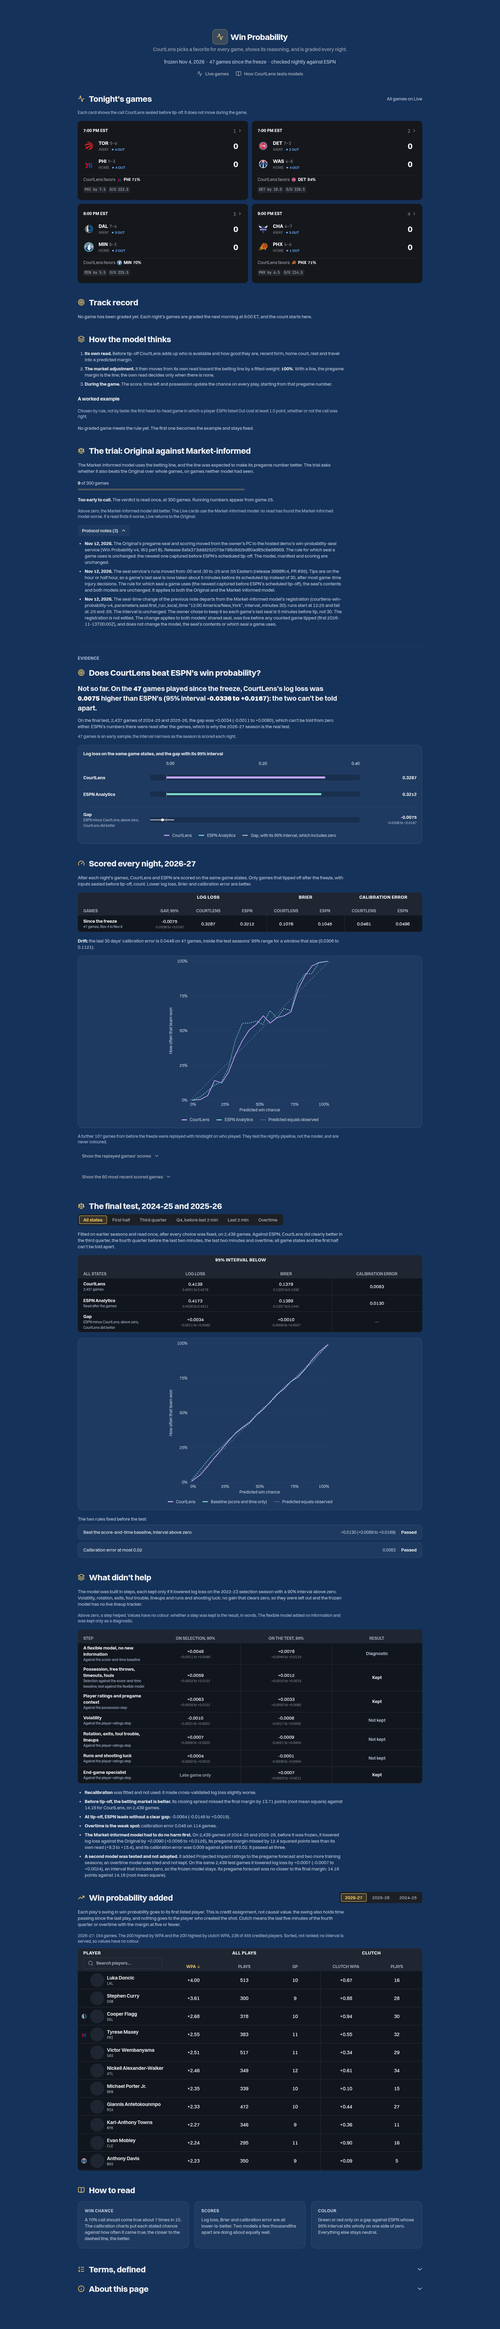
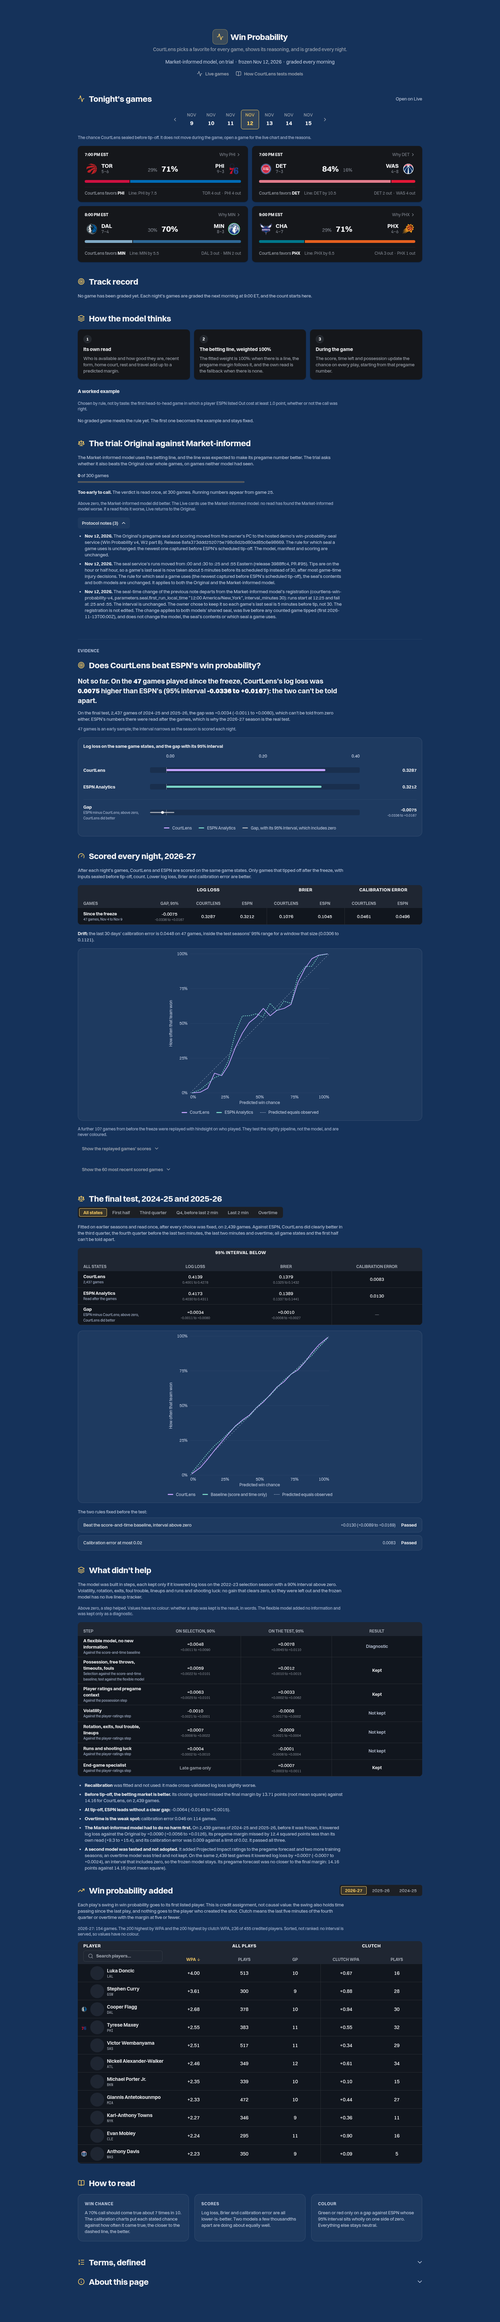
feat(wp4): W5 round 2, the page opens on a prediction board
Owner: the page should lead with the games and CourtLens's calls, user-friendly like Live, data kept.
Live's date strip over one card per game: logos, the sealed chance for each side, a bar split at it
in team colours, the call, line and who's out; finals show the score and right/wrong. Step cards,
hero names the serving model. Decisions recorded in the design catalog. Spec x3 + existing WP specs
42/42; live-prediction spec passes.

diff --git a/dashboard/components/win-probability-v4.tsx b/dashboard/components/win-probability-v4.tsx
@@ -1,13 +1,17 @@
 "use client";
 
 import Link from "next/link";
-import { easternToday, liveRead, nearestGameDate, type LiveGame, type LiveSlateData, type LiveTeam } from "@/lib/live";
+import { Suspense, type CSSProperties } from "react";
+import { awayFirst, easternToday, formatRecord, gameStatus, lineFavourite, liveRead, nearestGameDate, predictionCall, seasonOf, teamCode, validSlate, type LiveGame, type LiveSlateData, type LiveTeam } from "@/lib/live";
 import { formatDate } from "@/lib/format-date";
 import { band, metric, signed, type HeadToHead, type TrialRead, type WinProbabilityPage, type WorkedExample } from "@/lib/win-probability";
-import { GameCard } from "./live-board";
+import { DateStrip } from "./live-board";
+import { teamColors } from "./live-game";
+import { TeamLogo } from "./team-logo";
+import { Icon } from "./ui/icon";
 import { PredictionBody } from "./live-prediction";
 import { ResearchSection } from "./research/research-page";
-import { useFeed } from "./stats-feed-ui";
+import { useFeed, useUrlState } from "./stats-feed-ui";
 import { GatedNote } from "./ui/gated-note";
 import { ButtonSummary } from "./ui/kit";
 import { CalibrationChart } from "./win-probability-research";
@@ -18,34 +22,97 @@ import { CalibrationChart } from "./win-probability-research";
  * Before the first scored game, and in the offseason, each section says what it is waiting for.
  */
 
+const vars = (values: Record<`--${string}`, string>) => values as CSSProperties;
 const whole = (n: number) => n.toLocaleString("en-US");
 const pct = (right: number, games: number) => games ? `${Math.round((right / games) * 100)}%` : "—";
 const RESULT_WORDS: Record<string, string> = { better: "better", worse: "worse", inconclusive: "no clear difference" };
 
-// ---- 2. Latest slate ------------------------------------------------------------------------------------------------------
+// ---- 2. The prediction board: a date strip and one card per game, the call first --------------------------------------
 
-async function latestSlate(signal: AbortSignal): Promise<{ day: string; games: LiveGame[]; today: boolean } | null> {
+type Board = { day: string; games: LiveGame[]; calendar: string[]; today: boolean; fallback: boolean };
+
+async function loadBoard(wanted: string | null, signal: AbortSignal): Promise<Board> {
   const today = easternToday();
-  const first = await liveRead<LiveSlateData>(`?slate_date=${today}`, signal);
-  if (first.data?.games.length) return { day: today, games: first.data.games, today: true };
-  const earlier = nearestGameDate(first.data?.calendar?.filter(d => d < today), today);
-  if (!earlier) return null;
+  const day = wanted ?? today;
+  const first = await liveRead<LiveSlateData>(`?slate_date=${day}`, signal);
+  const calendar = first.data?.calendar ?? [];
+  const games = first.data?.games ?? [];
+  if (games.length || wanted) return { day, games, calendar, today: day === today, fallback: false };
+  // No games today: the latest earlier slate, so its calls and results show.
+  const earlier = nearestGameDate(calendar.filter(d => d < today), today);
+  if (!earlier) return { day, games: [], calendar, today: true, fallback: false };
   const read = await liveRead<LiveSlateData>(`?slate_date=${earlier}`, signal);
-  return read.data?.games.length ? { day: earlier, games: read.data.games, today: false } : null;
+  return { day: earlier, games: read.data?.games ?? [], calendar, today: false, fallback: true };
 }
 
-export function LatestSlate() {
-  const { data, error, loading } = useFeed([], signal => latestSlate(signal));
-  const title = data?.today ? "Tonight's games" : "The latest slate";
-  return <ResearchSection id="slate" icon="activity" title={title} aside={<Link href="/live" className="wp-link">All games on Live</Link>}>
-    {loading ? <p className="wp-note" role="status">Loading the slate…</p>
-      : error ? <GatedNote tone="warning">The slate is unavailable right now.</GatedNote>
-      : !data ? <p className="wp-lead" data-field="slate-empty">No games are scheduled. The first slate of the next season appears here with CourtLens&apos;s call for each game.</p>
-      : <>
-        <p className="wp-note" data-field="slate-day" data-day={data.day}>{data.today ? "Each card shows the call CourtLens sealed before tip-off. It does not move during the game." : `${formatDate(data.day)}: each card shows the sealed call and whether it was right.`}</p>
-        <ol className="live-grid wp-slate">{data.games.map((game, i) => <li key={game.source_id}><GameCard game={game} index={i} href={`/live/games/${game.source_id}?date=${game.slate_date}`} /></li>)}</ol>
-      </>}
+function TeamSide({ team, season, game, favoured }: { team: LiveTeam; season: string; game: LiveGame; favoured: boolean }) {
+  const played = game.status === "in_progress" || game.status === "final";
+  return <span className="wpc-team" data-side={team.side} data-favoured={favoured || undefined} data-lost={(game.status === "final" && team.winner === false) || undefined}>
+    <TeamLogo team={team.tricode ?? team.canonical_id ?? teamCode(team)} season={season} size={40} />
+    <span className="wpc-team-text">
+      <strong className="wpc-code">{teamCode(team)}</strong>
+      <span className="wpc-sub">{played ? <strong className="wpc-score">{team.score ?? "—"}</strong> : formatRecord(team.record) ?? (team.side === "home" ? "Home" : "Away")}</span>
+    </span>
+  </span>;
+}
+
+export function PredictionCard({ game }: { game: LiveGame }) {
+  const [away, home] = awayFirst(game.teams);
+  const season = seasonOf(game.slate_date);
+  const p = game.prediction;
+  const sealed = p?.status === "sealed" && p.home_win != null ? p.home_win : null;
+  const call = predictionCall(game);
+  const fav = sealed == null ? null : sealed >= 0.5 ? home : away;
+  const line = game.status === "scheduled" ? lineFavourite(game.odds, game.teams) : null;
+  const href = `/live/games/${game.source_id}?date=${game.slate_date}${game.status === "scheduled" ? "" : "&tab=pregame"}`;
+  return <Link className="wpc" href={href} data-status={game.status} data-game={game.source_id} data-home-win={sealed ?? undefined}
+    aria-label={`${away.name} at ${home.name}, ${gameStatus(game)}${fav && sealed != null ? `. CourtLens: ${teamCode(fav)} ${Math.round(Math.max(sealed, 1 - sealed) * 100)}% to win` : ""}. Open the game and why.`}
+    style={teamColors(game.teams, season)}>
+    <span className="wpc-head">
+      <span className="wpc-status">{game.status === "in_progress" && <span className="live-dot" aria-hidden="true" />}{gameStatus(game)}</span>
+      <span className="wpc-why">Why{fav ? ` ${teamCode(fav)}` : ""}<Icon name="right" size={14} /></span>
+    </span>
+    <span className="wpc-teams">
+      <TeamSide team={away} season={season} game={game} favoured={fav === away} />
+      {sealed != null ? <span className="wpc-pcts" aria-hidden="true">
+        <span data-favoured={fav === away || undefined}>{Math.round((1 - sealed) * 100)}%</span>
+        <span data-favoured={fav === home || undefined}>{Math.round(sealed * 100)}%</span>
+      </span> : <span className="wpc-pcts wpc-none" aria-hidden="true">—</span>}
+      <TeamSide team={home} season={season} game={game} favoured={fav === home} />
+    </span>
+    {sealed != null && <span className="wpc-bar" aria-hidden="true" style={vars({ "--wpc-away": `${(1 - sealed) * 100}%` })}><span data-side="away" /><span data-side="home" /></span>}
+    <span className="wpc-foot">
+      {call && call.kind !== "none" && fav ? <span className="wpc-call" data-call={call.kind} data-right={call.right == null ? undefined : String(call.right)} title={call.title}>
+        {{ favours: "CourtLens favors", toss_up: "Toss-up, leaning", pregame: "Pregame call:", called: "Called" }[call.kind]} <strong>{teamCode(fav)}</strong>
+        {call.kind === "called" && call.right != null && <span className="wpc-mark"><Icon name={call.right ? "check" : "close"} size={14} />{call.right ? "right" : "wrong"}</span>}
+      </span> : <span className="wpc-call" data-call="none">{p ? "No prediction was sealed for this game" : "Before CourtLens sealed predictions"}</span>}
+      {line && <span className="wpc-line" title={`The betting line (${game.odds?.provider ?? "sportsbook"})`}>Line: {line === "even" ? "even" : `${teamCode(line.team)} by ${line.points}`}</span>}
+      {game.status === "scheduled" && (away.out || home.out) ? <span className="wpc-out">{[away, home].filter(t => t.out).map(t => `${teamCode(t)} ${t.out} out`).join(" · ")}</span> : null}
+    </span>
+  </Link>;
+}
+
+function BoardInner() {
+  const { get } = useUrlState();
+  const wanted = get("day");
+  const day = wanted && validSlate(wanted) ? wanted : null;
+  const { data, stale, error, loading } = useFeed([day], signal => loadBoard(day, signal));
+  const board = data ?? stale;
+  const href = (d: string) => `/research/win-probability?day=${d}`;
+  const label = !board ? "Tonight's games" : board.today ? "Tonight's games" : formatDate(board.day);
+  return <ResearchSection id="slate" icon="activity" title={label} aside={<Link href={board ? `/live/${board.day}` : "/live"} className="wp-link">Open on Live</Link>}>
+    {board && <DateStrip slate={board.day} calendar={board.calendar} href={href} />}
+    {loading && !board ? <p className="wp-note" role="status">Loading the games…</p>
+      : error ? <GatedNote tone="warning">The games are unavailable right now.</GatedNote>
+      : board && board.games.length ? <>
+        <p className="wp-note" data-field="slate-day" data-day={board.day}>{board.fallback ? `No games today. The latest slate, ${formatDate(board.day)}: each call and whether it was right.` : board.today ? "The chance CourtLens sealed before tip-off. It does not move during the game; open a game for the live chart and the reasons." : "Each call as sealed before tip-off, and whether it was right."}</p>
+        <ol className="wpc-grid" aria-label="Predictions">{board.games.map(game => <li key={game.source_id}><PredictionCard game={game} /></li>)}</ol>
+      </> : <p className="wp-lead" data-field="slate-empty">{day ? "No games on this day." : "No games are scheduled. The first slate of the next season appears here with CourtLens's call for each game."}</p>}
   </ResearchSection>;
+}
+
+export function PredictionBoard() {
+  return <Suspense fallback={null}><BoardInner /></Suspense>;
 }
 
 // ---- 3. Track record ------------------------------------------------------------------------------------------------------
@@ -91,9 +158,9 @@ export function HowItThinks({ data }: { data: WinProbabilityPage }) {
   const game = example ? exampleGame(example) : null;
   return <ResearchSection id="how" icon="layers" title="How the model thinks">
     <ol className="wp-steps" data-field="steps">
-      <li><strong>Its own read.</strong> Before tip-off CourtLens adds up who is available and how good they are, recent form, home court, rest and travel into a predicted margin.</li>
-      <li data-field="weight" data-w={w}><strong>The market adjustment.</strong> It then moves from its own read toward the betting line by a fitted weight{w != null ? <>: <strong>{Math.round(w * 100)}%</strong>{w >= 0.995 ? ". With a line, the pregame margin is the line; the own read decides only when there is none" : ""}</> : ""}.</li>
-      <li><strong>During the game.</strong> The score, time left and possession update the chance on every play, starting from that pregame number.</li>
+      <li><span className="wp-step-n" aria-hidden="true">1</span><strong>Its own read</strong><span>Who is available and how good they are, recent form, home court, rest and travel add up to a predicted margin.</span></li>
+      <li data-field="weight" data-w={w}><span className="wp-step-n" aria-hidden="true">2</span><strong>The betting line{w != null ? `, weighted ${Math.round(w * 100)}%` : ""}</strong><span>{w != null && w >= 0.995 ? "The fitted weight is 100%: when there is a line, the pregame margin follows it, and the own read is the fallback when there is none." : "It moves from its own read toward the line by a fitted weight."}</span></li>
+      <li><span className="wp-step-n" aria-hidden="true">3</span><strong>During the game</strong><span>The score, time left and possession update the chance on every play, starting from that pregame number.</span></li>
     </ol>
     <h3 className="wp-subhead">A worked example</h3>
     <p className="wp-note" data-field="example-rule">Chosen by rule, not by taste: {example?.rule.replace(/^./, c => c.toLowerCase()) ?? "—"}</p>

diff --git a/dashboard/components/win-probability.css b/dashboard/components/win-probability.css
@@ -131,15 +131,56 @@
     .wp-defs dd { margin-bottom: var(--space-2); }
   }
   /* W5 (round 1): the v4 sections above the evidence. Neutral throughout; right and wrong are words. */
-  .wp-slate.live-grid { grid-template-columns: repeat(2, minmax(0, 1fr)); }
   .wp-link { color: var(--color-on-bg-secondary); font-size: var(--text-sm); }
   .wp-record { display: grid; grid-template-columns: repeat(3, minmax(0, 1fr)); gap: var(--space-3); max-width: 768px; margin: 0; }
   .wp-record > div { display: grid; gap: var(--space-1); padding: var(--space-3) var(--space-4); border-radius: var(--radius-md); background: var(--color-surface-1); box-shadow: var(--shadow-1); }
   .wp-record dt { color: var(--color-on-bg-tertiary); font-size: var(--text-xs); line-height: var(--text-xs-lh); }
   .wp-record dd { margin: 0; color: var(--color-text); font-size: var(--text-lg); font-weight: 650; font-variant-numeric: tabular-nums; }
   .wp-record dd .wp-name-sub { font-size: var(--text-2xs); font-weight: 400; }
-  .wp-steps { display: grid; gap: var(--space-2); max-width: 768px; margin: 0; padding-left: var(--space-5); color: var(--color-on-bg-secondary); font-size: var(--text-sm); line-height: var(--text-sm-lh); }
-  .wp-steps strong { color: var(--color-text); font-weight: 650; }
+  /* Round 2: the three steps as cards. */
+  .wp-steps { display: grid; grid-template-columns: repeat(3, minmax(0, 1fr)); gap: var(--space-3); margin: 0; padding: 0; list-style: none; }
+  .wp-steps > li { display: grid; align-content: start; gap: var(--space-2); padding: var(--space-4); border-radius: var(--radius-md); background: var(--color-surface-1); box-shadow: var(--shadow-1); color: var(--color-text-secondary); font-size: var(--text-sm); line-height: var(--text-sm-lh); }
+  .wp-steps strong { color: var(--color-text); font-size: var(--text-md); font-weight: 650; }
+  .wp-step-n { display: inline-grid; place-items: center; width: 24px; height: 24px; border-radius: 50%; background: var(--color-surface-3); color: var(--color-text); font-size: var(--text-xs); font-weight: 700; }
+
+  /* Round 2: the prediction board. Team colours mark identity only; right and wrong are words with ✓/✗. */
+  /* The strip sits in column 2 of Live's row grid; here it is a centred row of its own. */
+  .wp-page .live-strip { grid-column: auto; justify-content: center; }
+  .wpc-grid { display: grid; grid-template-columns: repeat(2, minmax(0, 1fr)); gap: var(--space-3); margin: 0; padding: 0; list-style: none; }
+  .wpc-grid > li { display: grid; }
+  .wpc {
+    display: grid; gap: var(--space-3); padding: var(--space-4) var(--space-5) var(--space-4); border-radius: var(--radius-md);
+    background: var(--color-surface-1); box-shadow: var(--shadow-1); color: var(--color-text); text-decoration: none; transition: background var(--dur-fast) var(--ease-out);
+  }
+  .wpc:hover { background: var(--color-surface-2); }
+  .wpc:focus-visible { outline: none; box-shadow: var(--focus-ring); }
+  .wpc-head { display: flex; align-items: center; justify-content: space-between; gap: var(--space-2); font-size: var(--text-xs); }
+  .wpc-status { display: inline-flex; align-items: center; gap: var(--space-1); font-weight: 700; }
+  .wpc-why { display: inline-flex; align-items: center; gap: var(--space-0-5); color: var(--color-text-tertiary); }
+  .wpc:hover .wpc-why { color: var(--color-text-secondary); }
+  .wpc-teams { display: grid; grid-template-columns: minmax(0, 1fr) auto minmax(0, 1fr); align-items: center; gap: var(--space-3); }
+  .wpc-team { display: flex; align-items: center; gap: var(--space-2); min-width: 0; }
+  .wpc-team[data-side="home"] { flex-direction: row-reverse; text-align: end; }
+  .wpc-team-text { display: grid; min-width: 0; }
+  .wpc-code { font-size: var(--text-lg); line-height: 1.1; font-weight: 700; }
+  .wpc-sub { color: var(--color-text-tertiary); font: 500 var(--text-xs) / 1.3 var(--font-mono, ui-monospace, monospace); }
+  .wpc-score { color: var(--color-text); font-size: var(--text-xl); line-height: 1.1; font-weight: 700; font-variant-numeric: tabular-nums; }
+  .wpc-team[data-lost] .wpc-code, .wpc-team[data-lost] .wpc-score { color: var(--color-text-secondary); font-weight: 600; }
+  .wpc-pcts { display: flex; gap: var(--space-3); font-size: var(--text-md); font-variant-numeric: tabular-nums; color: var(--color-text-tertiary); }
+  .wpc-pcts [data-favoured] { color: var(--color-text); font-size: var(--text-2xl); line-height: 1; font-weight: 700; }
+  .wpc-pcts { align-items: baseline; }
+  .wpc-bar { display: flex; height: 8px; overflow: hidden; border-radius: var(--radius-pill); background: var(--color-surface-3); }
+  .wpc-bar > [data-side="away"] { width: var(--wpc-away); background: var(--live-away); }
+  .wpc-bar > [data-side="home"] { flex: 1; background: var(--live-home); }
+  .wpc-bar > span + span { border-inline-start: 2px solid var(--color-surface-1); }
+  .wpc-foot { display: flex; flex-wrap: wrap; align-items: center; gap: var(--space-1) var(--space-3); padding-top: var(--space-2); border-top: 1px solid var(--color-hairline); color: var(--color-text-secondary); font-size: var(--text-xs); }
+  .wpc-call strong { color: var(--color-text); }
+  .wpc-call[data-call="none"] { color: var(--color-text-tertiary); font-style: italic; }
+  .wpc-mark { display: inline-flex; align-items: center; gap: var(--space-0-5); margin-inline-start: var(--space-1); font-weight: 600; }
+  .wpc-call[data-right="true"] .wpc-mark { color: var(--color-positive); }
+  .wpc-call[data-right="false"] .wpc-mark { color: var(--color-negative); }
+  .wpc-line, .wpc-out { color: var(--color-text-tertiary); }
+  .wpc-out { margin-inline-start: auto; }
   .wp-subhead { margin: var(--space-2) 0 0; color: var(--color-text); font-size: var(--text-md); font-weight: 650; }
   .wp-example { display: grid; gap: var(--space-3); padding: var(--space-4); border-radius: var(--radius-md); background: var(--color-surface-1); box-shadow: var(--shadow-1); }
   .wp-progress { display: grid; gap: var(--space-1); max-width: 480px; }
@@ -148,7 +189,9 @@
   .wp-meter { width: 100%; height: 8px; }
   .wp-evidence-head { margin: var(--space-4) 0 calc(-1 * var(--space-6)); padding-top: var(--space-6); border-top: 1px solid var(--color-hairline); color: var(--color-on-bg-tertiary); font-size: var(--text-xs); font-weight: 650; letter-spacing: 0.04em; text-transform: uppercase; }
   @media (max-width: 640px) {
-    .wp-slate.live-grid, .wp-record { grid-template-columns: minmax(0, 1fr); }
+    .wpc-grid, .wp-record, .wp-steps { grid-template-columns: minmax(0, 1fr); }
+    .wpc { padding: var(--space-3) var(--space-4); }
+    .wpc-out { margin-inline-start: 0; }
     .wp-example { padding: var(--space-3); }
   }
 }

diff --git a/dashboard/e2e/win-probability-v4.spec.ts b/dashboard/e2e/win-probability-v4.spec.ts
@@ -42,12 +42,23 @@ test("the v4 sections come first, in the plan's order, and read correctly before
   await page.setViewportSize({ width: 1440, height: 1000 });
   await page.goto("/research/win-probability");
   await expect(page.getByText("CourtLens picks a favorite for every game, shows its reasoning, and is graded every night.")).toBeVisible();
+  await page.locator("#trial").waitFor();
   const ids = await page.locator(".wp-page > section.rs-section, .wp-page > h2#evidence").evaluateAll(els => els.map(e => e.id));
   expect(ids.slice(0, 6)).toEqual(["slate", "track-record", "how", "trial", "evidence", "answer"]);
-  await expect(page.locator(".wp-slate .live-card")).toHaveCount(4);
-  await expect(page.locator(".wp-slate .live-card").first().locator(".live-card-call")).toHaveText(/CourtLens favors\s*PHI\s*71%/);
+  const cards = page.getByRole("list", { name: "Predictions" }).getByRole("link");
+  await expect(cards).toHaveCount(4);
+  const first = cards.first();
+  await expect(first).toHaveAttribute("aria-label", "Toronto Raptors at Philadelphia 76ers, 7:00 PM EST. CourtLens: PHI 71% to win. Open the game and why.");
+  await expect(first.locator(".wpc-pcts [data-favoured]")).toHaveText("71%");
+  await expect(first.locator(".wpc-call")).toHaveText(/CourtLens favors\s*PHI/);
+  await expect(first.locator(".wpc-line")).toHaveText("Line: PHI by 7.5");
+  await expect(first).toHaveAttribute("href", "/live/games/401909976?date=2026-11-12");
+  // The bar splits at the sealed chance: away 29%, home 71%.
+  const [bar, away] = [await first.locator(".wpc-bar").boundingBox(), await first.locator('.wpc-bar [data-side="away"]').boundingBox()];
+  expect(away!.width / bar!.width).toBeCloseTo(1 - why.prediction.home_win, 2);
+  await expect(page.getByRole("navigation", { name: "Live dates" }).locator('[aria-current="date"]')).toContainText("12");
   await expect(page.locator('[data-field="record-empty"]')).toContainText("No game has been graded yet");
-  await expect(page.locator('[data-field="weight"]')).toContainText("100%. With a line, the pregame margin is the line");
+  await expect(page.locator('[data-field="weight"]')).toContainText("The fitted weight is 100%: when there is a line, the pregame margin follows it");
   await expect(page.locator('[data-field="example-empty"]')).toBeVisible();
   await expect(page.locator('[data-field="example-rule"]')).toContainText("a player ESPN listed Out cost at least 1.0 point");
   await expect(page.locator('[data-field="trial-progress"]')).toContainText("0 of 300 games");
@@ -78,7 +89,8 @@ test("a day with no games shows the latest earlier slate", async ({ page }) => {
   });
   await page.clock.setFixedTime(new Date("2026-11-13T17:00:00Z"));
   await page.goto("/research/win-probability");
-  await expect(page.getByRole("heading", { name: "The latest slate" })).toBeVisible();
+  await expect(page.getByRole("heading", { name: "Nov 12, 2026" })).toBeVisible();
+  await expect(page.locator('[data-field="slate-day"]')).toContainText("No games today.");
   await expect(page.locator('[data-field="slate-day"]')).toHaveAttribute("data-day", "2026-11-12");
 });
 
@@ -97,4 +109,21 @@ test("graded games (test data): record, calibration, the worked example and the 
   await expect(page.locator('[data-field="v2"]')).toContainText("no clear difference");
   await expect(page.locator('[data-field="too-early"]')).toContainText("The running numbers below can change");
   await shot(page, "w5-page-graded-test-data-1440");
+});
+
+test("the date strip moves the board; a final card says whether the call was right", async ({ page }) => {
+  const games = slate.data!.games;
+  const finals = { ...slate, data: { ...slate.data!, games: [{ ...games[0], status: "final" as const,
+    teams: games[0].teams.map(t => ({ ...t, score: t.side === "home" ? 110 : 101, winner: t.side === "home" })), prediction: { ...games[0].prediction!, right: true } }] } };
+  await page.route("**/api/win-probability", route => route.fulfill({ json: real }));
+  await page.route("**/api/live?**", route => route.fulfill({ json: new URL(route.request().url()).searchParams.get("slate_date") === "2026-11-11" ? finals : slate }));
+  await page.goto("/research/win-probability?day=2026-11-12");
+  await page.getByRole("navigation", { name: "Live dates" }).getByRole("link", { name: "Previous day" }).click();
+  await expect(page).toHaveURL(/day=2026-11-11/);
+  const card = page.getByRole("list", { name: "Predictions" }).getByRole("link").first();
+  await expect(card.locator(".wpc-call")).toHaveText(/Called\s*PHI\s*right/);
+  await expect(card.locator(".wpc-call")).toHaveAttribute("data-right", "true");
+  await expect(card.locator('.wpc-team[data-side="home"] .wpc-score')).toHaveText("110");
+  await expect(card).toHaveAttribute("href", "/live/games/401909976?date=2026-11-12&tab=pregame");
+  await shot(page, "w5-board-final-test-data-1440");
 });

diff --git a/dashboard/components/win-probability-research.tsx b/dashboard/components/win-probability-research.tsx
@@ -17,7 +17,7 @@ import {
   type CurvePoint, type Interval, type RecentGame, type ScoreGroup, type WinProbabilityAdded, type WinProbabilityPage, type WpaRow, type WpaSort, type WpaSortKey,
 } from "@/lib/win-probability";
 import { getWinProbabilityAdded, getWinProbabilityPage } from "@/lib/workbench-api";
-import { HowItThinks, LatestSlate, TrackRecord, Trial } from "./win-probability-v4";
+import { HowItThinks, PredictionBoard, TrackRecord, Trial } from "./win-probability-v4";
 
 /**
  * Research → Win Probability (R15b model, designed in F03 / RD14). Presentation only: every number is the frozen card's, the nightly
@@ -458,12 +458,15 @@ function About({ data }: { data: WinProbabilityPage }) {
 
 export function WinProbabilityResearch() {
   const { data, error, loading, retry } = useFeed([], () => getWinProbabilityPage());
-  const meta = data ? [`frozen ${formatDate(data.model.frozen_at.slice(0, 10))}`, `${whole(data.scorecard?.prospective.games ?? 0)} games since the freeze`, "checked nightly against ESPN"] : null;
+  // W5 round 2: the hero names the serving model; the Original's counts stay in Evidence.
+  const h2h = data?.head_to_head;
+  const meta = data ? (h2h ? [h2h.serving_model.model === "market_informed" ? "Market-informed model, on trial" : "Original model", `frozen ${formatDate(h2h.model.frozen_at.slice(0, 10))}`, "graded every morning"]
+    : [`frozen ${formatDate(data.model.frozen_at.slice(0, 10))}`, `${whole(data.scorecard?.prospective.games ?? 0)} games since the freeze`, "checked nightly against ESPN"]) : null;
   return <Frame meta={meta}>
     {error && <FeedFailure error={error} retry={retry} what="Win Probability" />}
     {loading && <FeedSkeleton label="Loading Win Probability" />}
     {data && <>
-      <LatestSlate />
+      <PredictionBoard />
       <TrackRecord data={data} />
       <HowItThinks data={data} />
       <Trial data={data} />

diff --git a/docs/research-design-catalog.md b/docs/research-design-catalog.md
@@ -1110,3 +1110,23 @@ Instructions (owner, 2026-11-10, round 5; offered suggestions 3 and 6 as optiona
 - **Now:** not built. R16 is running (development set partly done, holdout unopened).
 - **Waits for:** R16's results; then a page with accuracy, intervals, failure categories and per-tool errors.
 - **Cut (owner, 2026-11-10):** asked "WHat exactly is ask evaluation page? Should we even have this?", the owner chose to put Ask itself on the hosted demo with per-visitor and site-wide daily limits instead, then "Yes cut it". R16 stays unfinished on its branch (`research-r16`, dev 117/573, holdout unopened); its replay of the 214 recorded stats calls drove the stats-tool argument repair (1854a244).
+
+## W4/W5 Win Probability v4 (Live cards, Pre-Game why, the page) — round 2 (2026-11-12)
+
+- **Round 1** (W4 #101, W5 #103): the card row and Pre-Game "CourtLens prediction" panel from the
+  plan's mock-ups; the page reordered to slate, track record, how it thinks, trial, then Evidence.
+- **Owner instruction (2026-11-12, verbatim in part):** "The current win prob page, doesn't show any
+  upcoming games, and what courtlens' model predicts. It's not user friendly … bring some more clear,
+  nice ux focused design to the forefront (that doesn't mean the statistics, and data goes away, I
+  just want it to look nice). A nice example is our 'Live' page … user centric but still rich with
+  data." On the open decisions: "use your best judgment and select the optimal choice."
+- **Round 2 built:** the page opens on a prediction board: Live's date strip (any day, past days
+  show results), one card per game with both logos, the sealed chance for each side (the favourite's
+  large), a bar split at that chance in each team's colour, the call, the line and who's out; a
+  final card shows the score and "Called X ✓ right / ✗ wrong". A card opens the game (Pre-Game
+  "why" for past games). The three model steps are cards; the track record is tiles.
+- **Decisions taken (owner delegated):** (1) the 100% weight is said plainly: "when there is a line,
+  the pregame margin follows it, and the own read is the fallback when there is none"; (2) the
+  why panel's bars run away (left) to home (right), the site's away-first order, not the mock-up's;
+  (3) the hero names the serving model and its freeze ("Market-informed model, on trial · frozen
+  Nov 12, 2026 · graded every morning"); the Original's game counts stay in Evidence.
